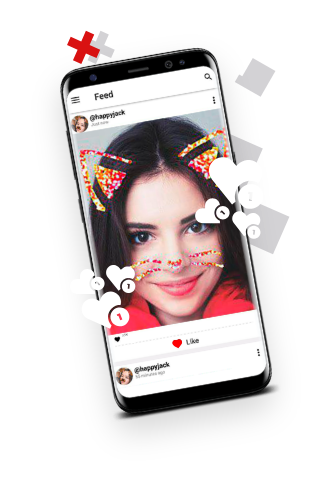
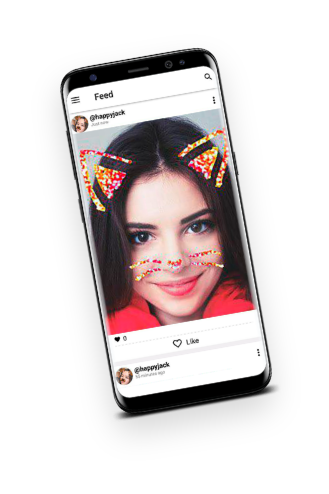
change style

diff --git a/site2/css/style.css b/site2/css/style.css
@@ -159,30 +159,152 @@ a{
     height: 430px;
     padding-top:1px;
     background: url(../img/bg-igl1.png)no-repeat center;
-    background-attachment: fixed;
     background-size: 150%;
   }
-
-  /*.content-universe:before {
-    content: '';
-    position: fixed;
-    left: 0;
-    right: 0;
-    top: 0;
-    bottom: 0;
-    z-index: -1;
-    background: url(../img/bg-igl1.png)no-repeat center;
-    background-attachment: fixed;
-    background-size: 150%;
-
-  }*/
-
-  .content-universe img {
-    width: 100%;
+  
+  .likel1 {
+    position: relative;
+    top: 220px;
+    left: 80px;
+    width: 54px;
+    height: 48px;
+    animation-duration: 1s;
+    animation-iteration-count: infinite;
+    transform-origin: left;
   }
 
-  .content-universe img:first-child {
-    position: absolute;
+  .anlikel1 {
+    animation-name: anlikel1;
+    animation-timing-function: linear;
+  }
+
+
+@keyframes anlikel1 {
+  0%   { transform: translateY(0); }
+  50%  { transform: translateY(-10px); }
+  100% { transform: translateY(0); }
+}
+
+  .likel2 {
+    position: relative;
+    top: 180px;
+    left: 50px;
+    width: 32px;
+    height: 30px;
+    animation-duration: 1s;
+    animation-iteration-count: infinite;
+    transform-origin: left;
+  }
+
+  .anlikel2 {
+    animation-name: anlikel2;
+    animation-timing-function: linear;
+}
+
+
+@keyframes anlikel2 {
+  0%   { transform: translateY(0); }
+  50%  { transform: translateY(-20px); }
+  100% { transform: translateY(0); }
+}
+
+  .likel3 {
+    position: relative;
+    top: 185px;
+    right: 25px;
+    width: 41px;
+    height: 39px;
+    animation-duration: 1s;
+    animation-iteration-count: infinite;
+    transform-origin: left;
+  }
+
+  .anlikel3 {
+    animation-name: anlikel3;
+    animation-timing-function: linear;
+  }
+
+
+@keyframes anlikel3 {
+  0%   { transform: translateY(0); }
+  50%  { transform: translateX(-20px); }
+  100% { transform: translateY(0); }
+}
+
+
+  .liker1 {
+    position: relative;
+    top: -390px;
+    left: 200px;
+    width: 59px;
+    height: 55px;
+    animation-duration: 1s;
+    animation-iteration-count: infinite;
+    transform-origin: bottom;
+  }
+
+  .anliker1 {
+    animation-name: anliker1;
+    animation-timing-function: linear;
+  }
+
+  @keyframes anliker1 {
+    0%   { transform: translateY(0); }
+    50%  { transform: translateY(-25px); }
+    100% { transform: translateY(0); }
+  }
+
+  .liker2 {
+    position: relative;
+    top: -370px;
+    left: 115px;
+    width: 41px;
+    height: 39px;
+    animation-duration: 1s;
+    animation-iteration-count: infinite;
+    transform-origin: left;
+  }
+  
+  .anliker2 {
+    animation-name: anliker2;
+    animation-timing-function: linear;
+  }
+
+  @keyframes anliker2 {
+    0%   { transform: translateY(0); }
+    50%  { transform: translateY(-10px); }
+    100% { transform: translateY(0); }
+  }
+
+
+  .liker3 {
+    position: relative;
+    top: -350px;
+    left: 115px;
+    width: 32px;
+    height: 30px;
+    animation-duration: 1s;
+    animation-iteration-count: infinite;
+    transform-origin: left;
+  }
+  
+  .anliker3 {
+    animation-name: anliker3;
+    animation-timing-function: linear;
+  }
+
+
+
+@keyframes anliker3 {
+  0%   { transform: translateY(0); }
+  50%  { transform: translateY(-15px); }
+  100% { transform: translateY(0); }
+}
+
+  
+
+  .mobile {
+    margin-top: -125px;
   }
 
   .content-universe img:last-child {
@@ -250,18 +372,7 @@ a{
     background-attachment: fixed;
   }
 
-  /*.translator:before {
-    content: '';
-    position: fixed;
-    left: 0;
-    right: 0;
-    top: 0;
-    bottom: 0;
-    z-index: -1;
-    background:url(../img/bg-igl3.png)no-repeat center;
-    background-size: 175%;
-    background-attachment: fixed;
-  }*/
+  
 
   .translator img {
     width: 100%;

diff --git a/site2/index.html b/site2/index.html
@@ -35,8 +35,16 @@
 <!-- content-universe -->
 
 <div class="content-universe">
-    <img src="img/content-universe.png" alt="">
-    <img src="img/igl-mobile1.png" alt="">
+    <img src="img/content-universe.png" alt="" style="margin-left: 10px;">
+    <div class="content-universe_image">
+        <img src="img/likel1.png" alt="" class="likel1 anlikel1">
+        <img src="img/likel2.png" alt="" class="likel2 anlikel2">
+        <img src="img/likel3.png" alt="" class="likel3 anlikel3">
+        <img src="img/igl-mobile1.png" alt="" class="mobile">
+        <img src="img/liker1.png" alt="" class="liker1 anliker1">
+        <img src="img/liker2.png" alt="" class="liker2 anliker2">
+        <img src="img/liker3.png" alt="" class="liker3 anliker3">
+    </div>
 </div>
 
 
